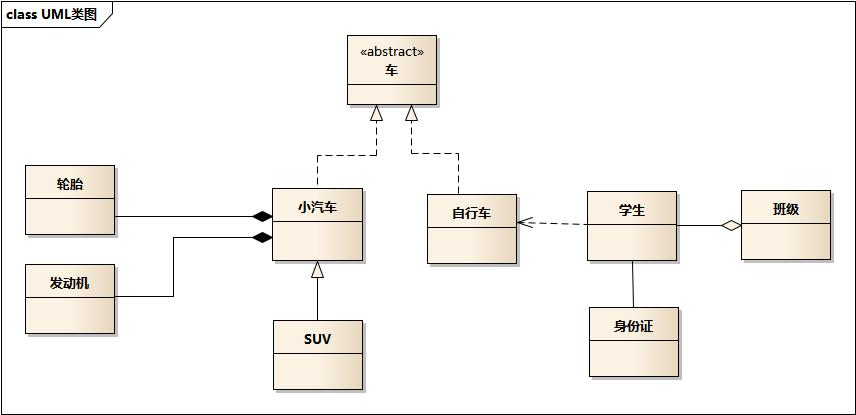
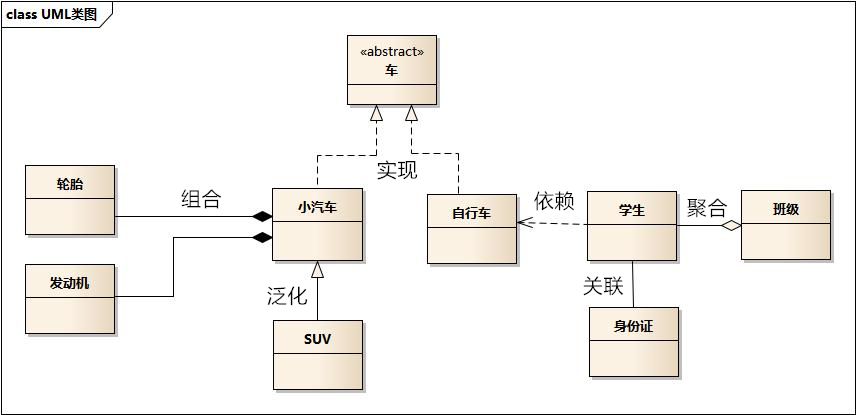
UML

diff --git a/src/Java/UML/LittleCar.java b/src/Java/UML/LittleCar.java
@@ -1,7 +1,7 @@
 package UML;
 
 public class LittleCar implements Car {
-    //泛化关系，小车自行车都是车
+    //实现接口，小车自行车都是车
     public LittleCar(){}
     public void getName(){
         System.out.println("this is LittleCar");
@@ -10,7 +10,6 @@ public class LittleCar implements Car {
     class engineer{
 
     }
-
     //组合关系 轮胎 引擎都是小汽车的一部分
     class tyre{
 

diff --git a/src/Java/UML/Bicycle.java b/src/Java/UML/Bicycle.java
@@ -1,7 +1,7 @@
 package UML;
 
 public class Bicycle implements Car {
-    //泛化关系，小车，自行车都是车
+    //实现接口，小车，自行车都是车
     public Bicycle(){}
     public void getName(){
         System.out.println("This is Bicycle");

diff --git a/src/Java/UML/SUV.java b/src/Java/UML/SUV.java
@@ -1,5 +1,6 @@
 package UML;
 
 public class SUV extends LittleCar{
+    //实现具体类型的小汽车
     public SUV(){};
 }

diff --git a/src/Java/UML/Car.java b/src/Java/UML/Car.java
@@ -1,5 +1,6 @@
 package UML;
 
 public interface Car {
+    //接口 供外部使用
     public void getName();
 }

diff --git a/README.md b/README.md
@@ -3,4 +3,9 @@ First acquaintance of design pattern
 1. * UML
 ![Image text](./src/Resource/image/UML.jpg)
 其中关系如路径`src/Java/UML`中类定义。
-其中车可以用接口声明。小汽车和自行车都是车的一种，
+车用接口声明，提供外部使用。小汽车和自行车都是车的一种。
+`组合`：组合是一种很强的关系xx has a xx 如小汽车 has a 引擎，类具有相同的生命周期无法单独存在。
+`聚合`：聚合关系并不是那么强，但又有关联，如学生组成班级，但即使学生不存在，班级也能存在。生命周期不受双方约束。
+`依赖`：依赖，如图学生依赖自行车出行，意味着学生可能使用到自行车的一部分属性，但不完全只能使用自行车。
+`关联`：只有在特定情况下才会使用到关联对象的属性。
+`泛化`: 泛化是xx is a xx的关系，例如SUV is a 小汽车。
